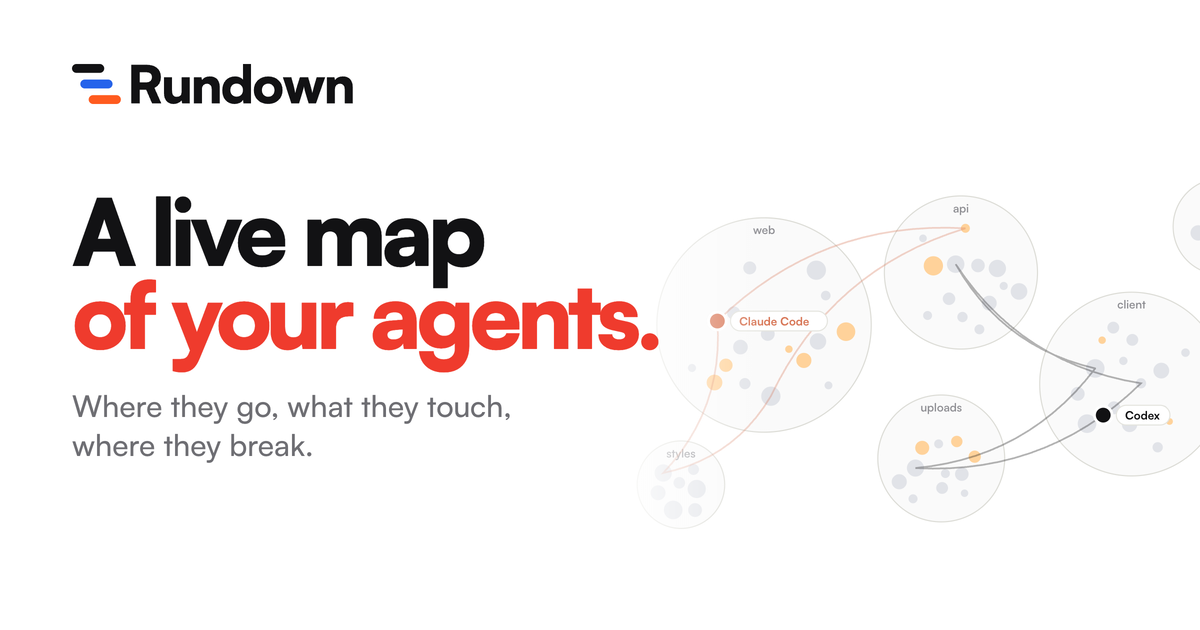
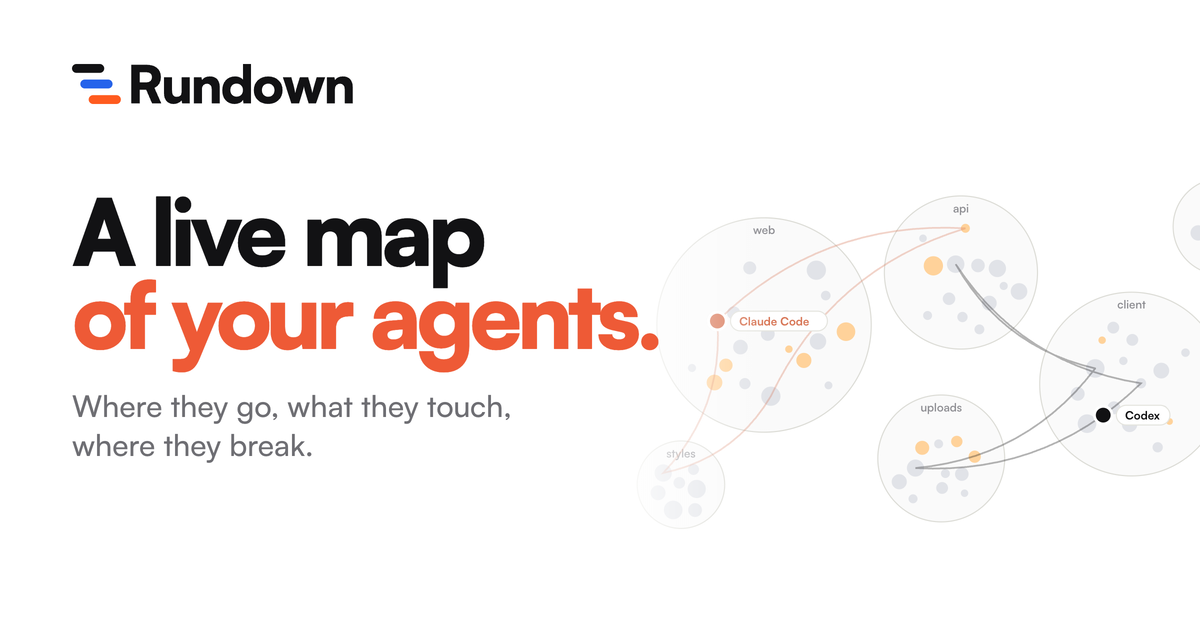
[site] Headline accent a little softer and less red (#ee5a36, was #ef3b2d); share image to match

Changed region(s): [[0.0617, 0.4524, 0.555, 0.6032]]

diff --git a/index.html b/index.html
@@ -33,7 +33,7 @@
   --line: #e4e4de;
   --blue: #2563eb;     /* cobalt, the second step: buttons, links, focus */
   --orange: #ff5b1f;   /* the lead step: what is happening now */
-  --red: #ef3b2d;
+  --red: #ee5a36;
   --accent: var(--red);   /* accented words in the headlines */
   --accent-on-dark: var(--red);
   --cool: #b4c2d4;   /* unchanged file */
